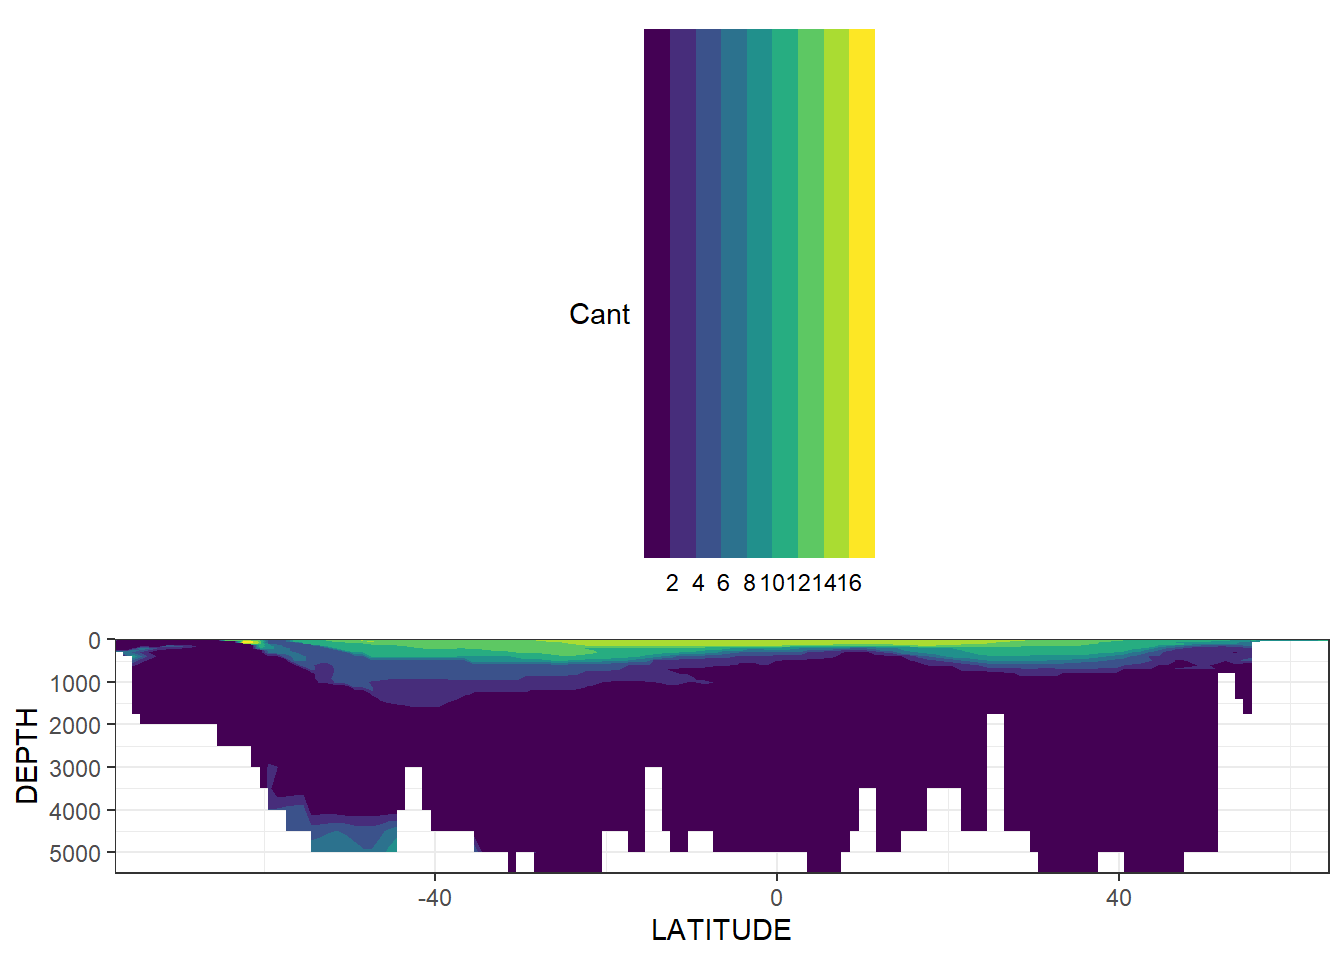
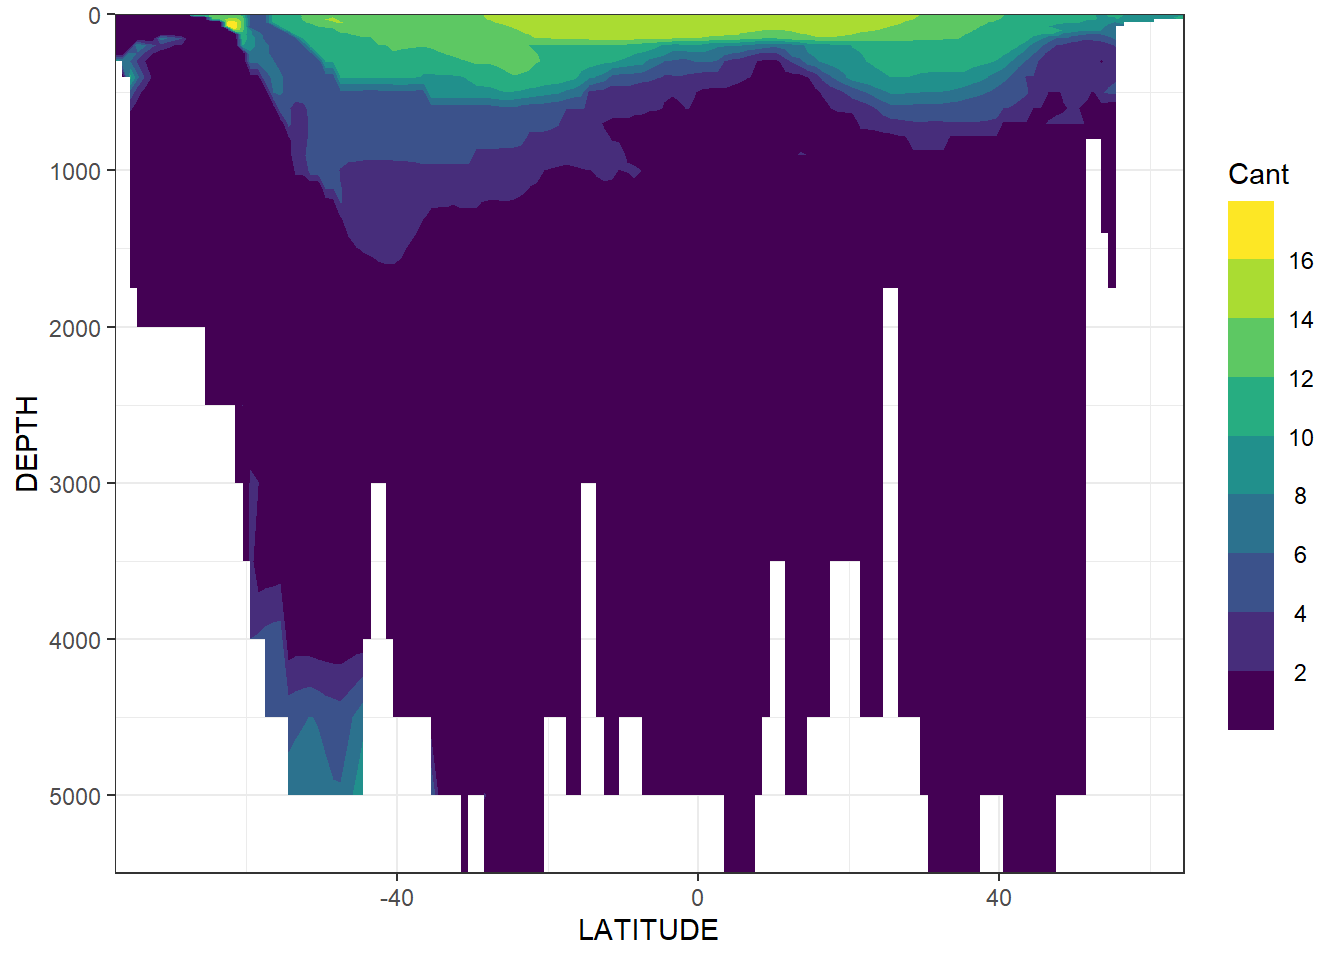
Build site.

diff --git a/docs/read_Gruber_2019_Cant.html b/docs/read_Gruber_2019_Cant.html
@@ -552,16 +552,16 @@ This reproducible <a href="http://rmarkdown.rstudio.com">R Markdown</a> analysis
 <div class="panel panel-default">
 <div class="panel-heading">
 <p class="panel-title">
-<a data-toggle="collapse" data-parent="#workflowr-checks" href="#strongRepositoryversionstrongahrefhttpsgithubcomjensdanielmuellerCanteMLRtree8b6b8d80dd15d58a3088e840b75af789fffb7fb5targetblank8b6b8d8a"> <span class="glyphicon glyphicon-ok text-success" aria-hidden="true"></span> <strong>Repository version:</strong> <a href="https://github.com/jens-daniel-mueller/Cant_eMLR/tree/8b6b8d80dd15d58a3088e840b75af789fffb7fb5" target="_blank">8b6b8d8</a> </a>
+<a data-toggle="collapse" data-parent="#workflowr-checks" href="#strongRepositoryversionstrongahrefhttpsgithubcomjensdanielmuellerCanteMLRtreedfa906f12bee7405c16271f7f9223aa8545eca0etargetblankdfa906fa"> <span class="glyphicon glyphicon-ok text-success" aria-hidden="true"></span> <strong>Repository version:</strong> <a href="https://github.com/jens-daniel-mueller/Cant_eMLR/tree/dfa906f12bee7405c16271f7f9223aa8545eca0e" target="_blank">dfa906f</a> </a>
 </p>
 </div>
[2 lines of base64/hex data omitted]
 <div class="panel-body">
 <p>
 Great! You are using Git for version control. Tracking code development and connecting the code version to the results is critical for reproducibility.
 </p>
 <p>
-The results in this page were generated with repository version <a href="https://github.com/jens-daniel-mueller/Cant_eMLR/tree/8b6b8d80dd15d58a3088e840b75af789fffb7fb5" target="_blank">8b6b8d8</a>. See the <em>Past versions</em> tab to see a history of the changes made to the R Markdown and HTML files.
+The results in this page were generated with repository version <a href="https://github.com/jens-daniel-mueller/Cant_eMLR/tree/dfa906f12bee7405c16271f7f9223aa8545eca0e" target="_blank">dfa906f</a>. See the <em>Past versions</em> tab to see a history of the changes made to the R Markdown and HTML files.
 </p>
 <p>
 Note that you need to be careful to ensure that all relevant files for the analysis have been committed to Git prior to generating the results (you can use <code>wflow_publish</code> or <code>wflow_git_commit</code>). workflowr only checks the R Markdown file, but you know if there are other scripts or data files that it depends on. Below is the status of the Git repository when the results were generated:
@@ -620,6 +620,40 @@ Message
 </tr>
 </thead>
 <tbody>
+<tr>
+<td>
+Rmd
+</td>
+<td>
+<a href="https://github.com/jens-daniel-mueller/Cant_eMLR/blob/dfa906f12bee7405c16271f7f9223aa8545eca0e/analysis/read_Gruber_2019_Cant.Rmd" target="_blank">dfa906f</a>
+</td>
+<td>
+jens-daniel-mueller
+</td>
+<td>
+2020-08-07
+</td>
+<td>
+formating
+</td>
+</tr>
+<tr>
+<td>
+html
+</td>
+<td>
+<a href="https://rawcdn.githack.com/jens-daniel-mueller/Cant_eMLR/ae310c7076c271d786b78e4d2e1e6aa8ffe08859/docs/read_Gruber_2019_Cant.html" target="_blank">ae310c7</a>
+</td>
+<td>
+jens-daniel-mueller
+</td>
+<td>
+2020-08-07
+</td>
+<td>
+Build site.
+</td>
+</tr>
 <tr>
 <td>
 Rmd
@@ -742,8 +776,7 @@ Pac_lon &lt;- 190.5</code></pre>
   scale_fill_viridis_d(name = &quot;Cant&quot;) +
   guides(fill = guide_colorsteps(barheight = unit(7, &quot;cm&quot;))) +
   scale_y_reverse() +
-  coord_cartesian(expand = 0) +
-  theme(legend.position = &quot;top&quot;)</code></pre>
+  coord_cartesian(expand = 0)</code></pre>
 <p><img src="figure/read_Gruber_2019_Cant.Rmd/Cant_section_Atlantic-1.png" width="672" style="display: block; margin: auto;" /></p>
 </div>
 <div id="pacific" class="section level3">
@@ -755,8 +788,7 @@ Pac_lon &lt;- 190.5</code></pre>
   scale_fill_viridis_d(name = &quot;Cant&quot;) +
   guides(fill = guide_colorsteps(barheight = unit(7, &quot;cm&quot;))) +
   scale_y_reverse() +
-  coord_cartesian(expand = 0) +
-  theme(legend.position = &quot;top&quot;)</code></pre>
+  coord_cartesian(expand = 0)</code></pre>
 <p><img src="figure/read_Gruber_2019_Cant.Rmd/Cant_section_Pacific-1.png" width="672" style="display: block; margin: auto;" /></p>
 </div>
 </div>
